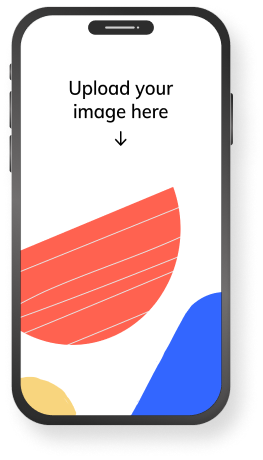
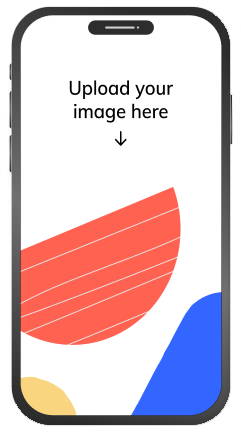
fix #23

diff --git a/src/layouts/main.html b/src/layouts/main.html
@@ -33,7 +33,7 @@
             <!-- Circle before the smart phone -->
             <!-- Smart phone -->
             <figure>
-                <img src="../assets/images/MobileMockup.webp" alt="phone" class="features__picture-smartphone">
+                <img src="../assets/images/MobileMockup.png" alt="phone" class="features__picture-smartphone">
             </figure>
             <!-- Red star -->
             <figure>
@@ -175,9 +175,9 @@
         </button>
         <div class="highlight-image">
             <figure class="highlight-image-tablet">
-                <img src="../assets/images/imageshape.webp" alt="tablet" class="shape">
-                <img src="../assets/images/tablettablet.webp" alt="tablet" class="shapetablet">
-                <img src="../assets/images/desktoptablet.webp" alt="tablet" class="shapedesktop">
+                <img src="../assets/images/imageshape.png" alt="tablet" class="shape">
+                <img src="../assets/images/tablettablet.png" alt="tablet" class="shapetablet">
+                <img src="../assets/images/desktoptablet.png" alt="tablet" class="shapedesktop">
             </figure>
             <figure>
                 <img src="../assets/icons/ic-substract.svg" alt="star" class="star first-star">

diff --git a/src/components/team__card.html b/src/components/team__card.html
@@ -1,7 +1,7 @@
 <each loop="item in {{ list }}">
     <article class="team__crcard-card">
         <figure class="team__crcard-card-image">
-            <img src="../assets/images/team-member-{{ item.num }}.webp" alt="member" class="people-image">
+            <img src="../assets/images/team-member-{{ item.num }}.png" alt="member" class="people-image">
             <figcaption class="image-caption">
                 <h5 class="people-name">{{ item.peoplename }}</h5>
                 <p class="people-job">{{ item.peoplejob }}</p>

diff --git a/src/components/customer__card.html b/src/components/customer__card.html
@@ -1,7 +1,7 @@
 <each loop="item in {{ list }}">
     <article class="testimonial__crcard-card">
         <figure class="testimonial__crcard-card-image">
-            <img src="../assets/images/{{ item.ipic }}.webp" alt="girl" class="people-image">
+            <img src="../assets/images/{{ item.ipic }}.png" alt="girl" class="people-image">
             <figcaption class="image-caption">
                 <h5 class="people-name">
                      {{ item.peoplename }}
